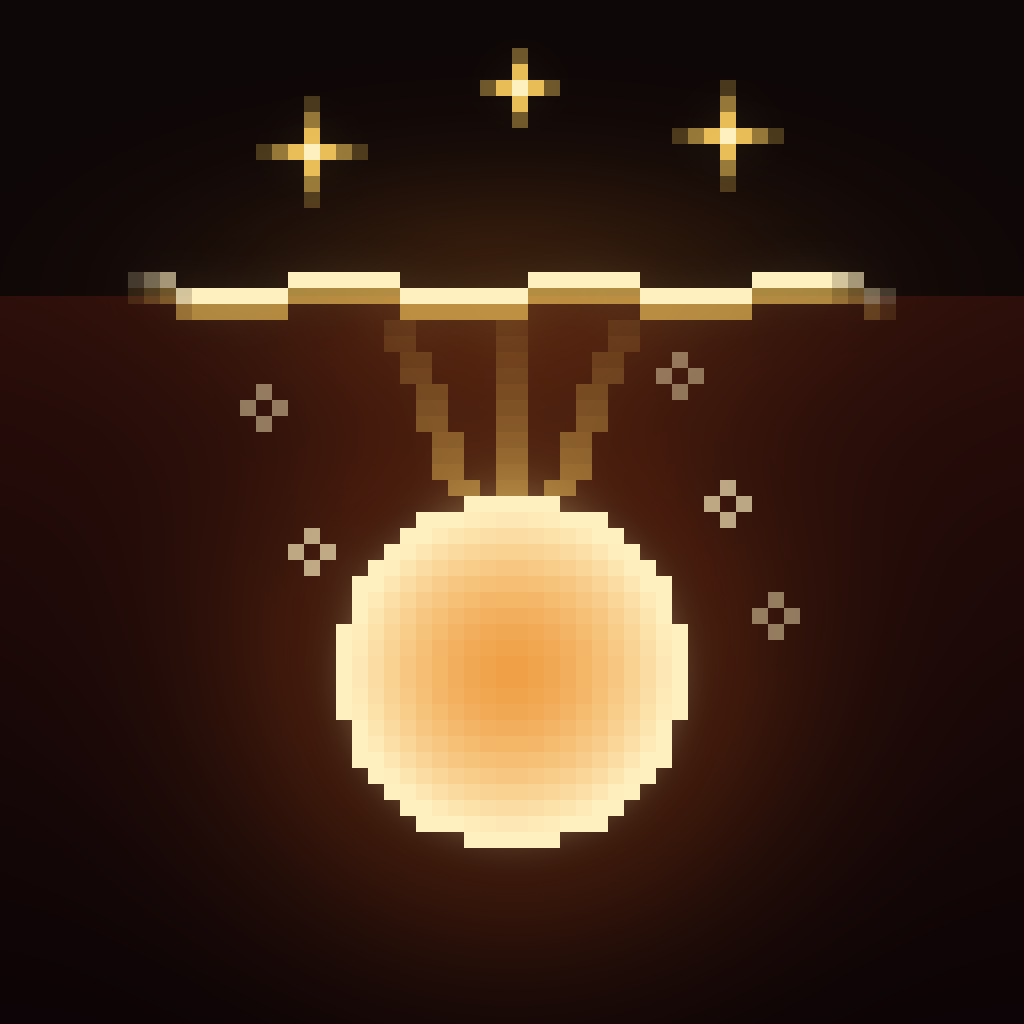
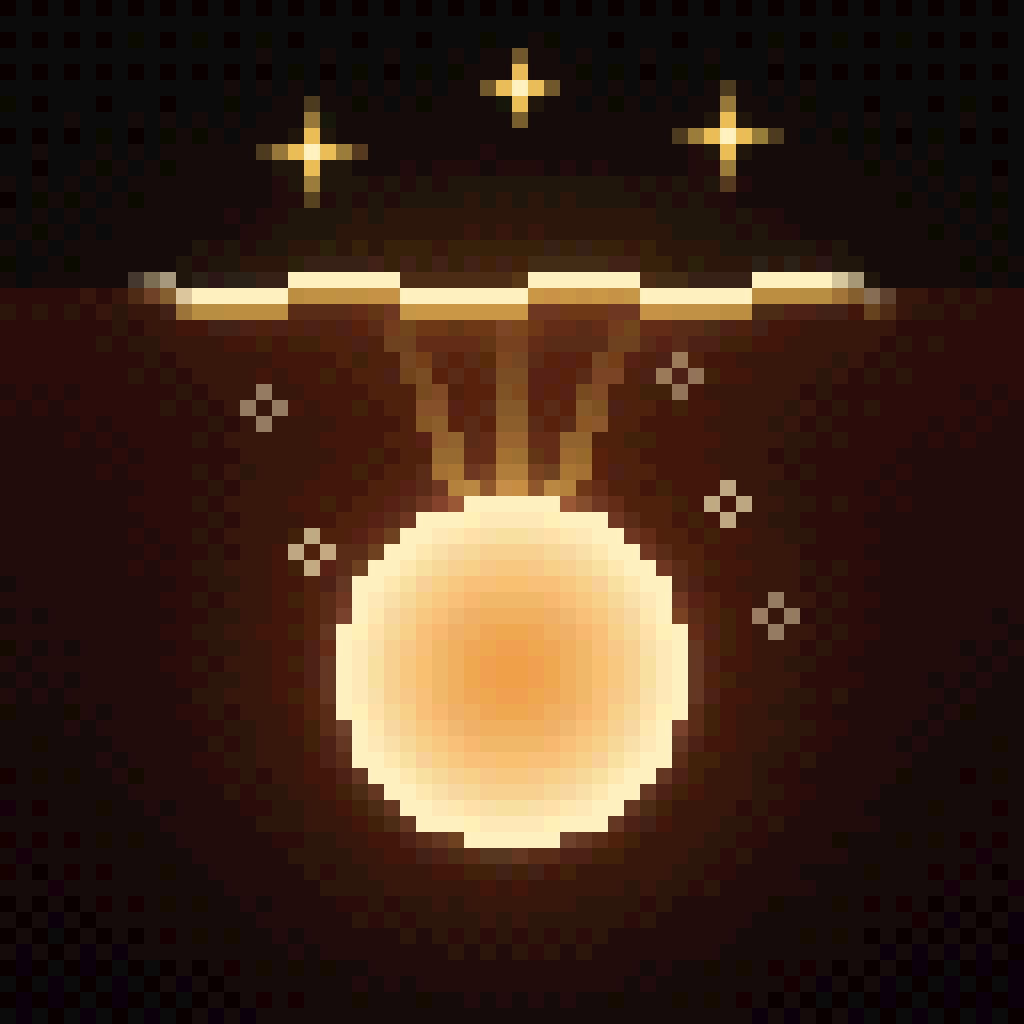
Profile picture: glow and gradients on the same pixel grid
Background, glow and art are composed on the 64x64 grid; gradients become
solid colour bands with Bayer-dithered seams, then scale 16x.

Claude-Session: https://claude.ai/code/session_01C6DbbRrFrEA7dajvf5KuJJ

diff --git a/music/tools/pfp.py b/music/tools/pfp.py
@@ -1,7 +1,7 @@
 """Profile picture for sunkensol: a sun sunk beneath the waterline, light rising from it to the surface.
 
 usage: python3 pfp.py out.png
-Pixel art on a 64x64 grid (same palette as the apricity. thumbnail), scaled 16x to 1024x1024.
+Everything (art, glow, gradients) is built on one 64x64 grid with stepped, dithered gradients, scaled 16x to 1024x1024.
 Everything important sits inside the central circle, so a round crop loses nothing.
 """
 import sys, os
@@ -56,9 +56,11 @@ def art():
         put(fx, fy, CREAM)
     return img
 
+BAYER = np.array([[0, 8, 2, 10], [12, 4, 14, 6], [3, 11, 1, 9], [15, 7, 13, 5]], np.float32) / 16
+
 def main(out):
-    yy, xx = np.mgrid[0:SIZE, 0:SIZE] / SIZE
-    depth = np.clip((yy - 0.3) / 0.7, 0, 1)[..., None]
+    # everything is built on the 64x64 grid: background, glow and art share the same pixels
+    yy, xx = (np.mgrid[0:G, 0:G] + 0.5) / G
     sky_c, sea_top, sea_deep = np.array([14, 7, 7], np.float32), np.array([44, 14, 10], np.float32), np.array([12, 4, 6], np.float32)
     under = (yy >= 18.5 / 64)[..., None]
     d2 = np.clip((yy - 18.5 / 64) / (1 - 18.5 / 64), 0, 1)[..., None]
@@ -67,12 +69,17 @@ def main(out):
     arr += np.array([90, 40, 10], np.float32) * glow
     sky = np.exp(-(((xx - 0.5) ** 2 + (yy - 18 / 64) ** 2 * 6) / (2 * 0.2 ** 2)))[..., None]   # light at the surface
     arr += np.array([40, 22, 6], np.float32) * sky
-    img = Image.fromarray(np.clip(arr, 0, 255).astype(np.uint8)).convert('RGBA')
-    big = art().resize((SIZE, SIZE), Image.NEAREST)
-    halo = big.filter(ImageFilter.GaussianBlur(28))
-    img = Image.alpha_composite(img, Image.blend(Image.new('RGBA', img.size, (0, 0, 0, 0)), halo, 0.7))
-    img.alpha_composite(big)
-    img.convert('RGB').save(out)
+    a = art(); A = np.asarray(a, np.float32); alpha = A[..., 3:4] / 255
+    halo = np.asarray(a.filter(ImageFilter.GaussianBlur(1.75)), np.float32)                 # the glow, on the same grid
+    arr += halo[..., :3] * (halo[..., 3:4] / 255) * 0.7
+    # pixel-art gradients: the background and glow snap to colour steps, with an ordered (Bayer) dither between steps
+    q = 11.0; th = np.tile(BAYER, (G // 4, G // 4))[..., None]
+    bg = np.floor(arr / q + 0.5 + (th - 0.5) * 0.45) * q          # solid bands; dither only along the seams
+    # the art keeps its shapes; its own gradients (the sun) band into clean steps without dither
+    art_q = np.round(A[..., :3] / 8) * 8
+    out_arr = bg * (1 - alpha) + art_q * alpha
+    small = Image.fromarray(np.clip(out_arr, 0, 255).astype(np.uint8))
+    small.resize((SIZE, SIZE), Image.NEAREST).save(out)
     print('wrote', out)
 
 if __name__ == '__main__':
